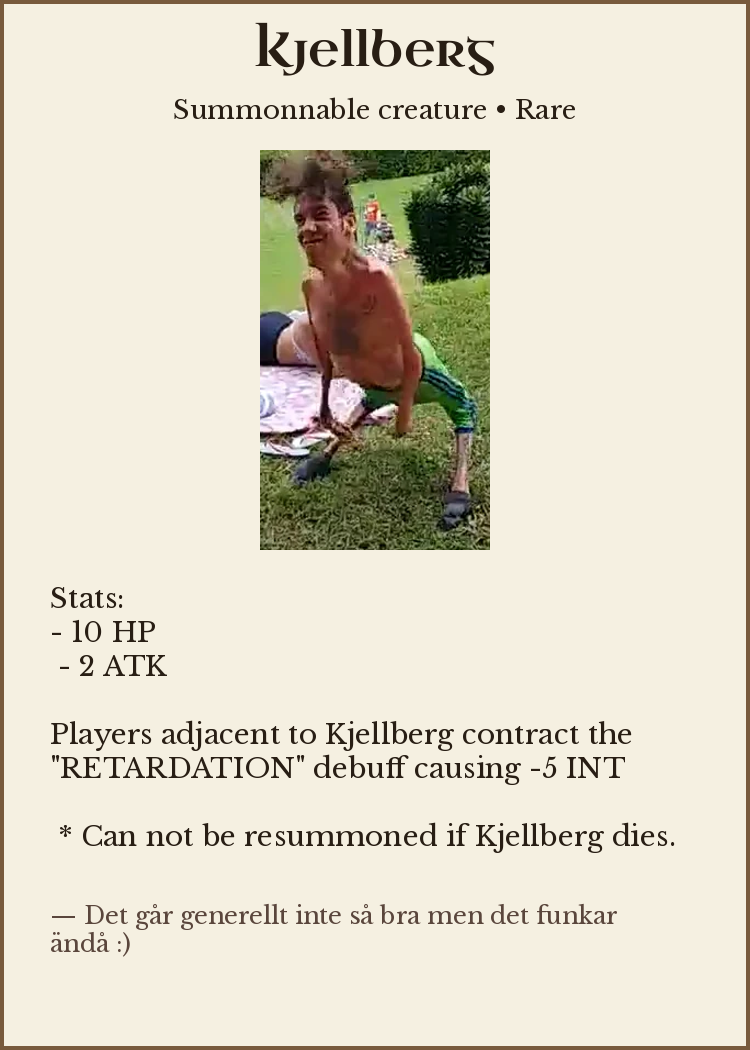
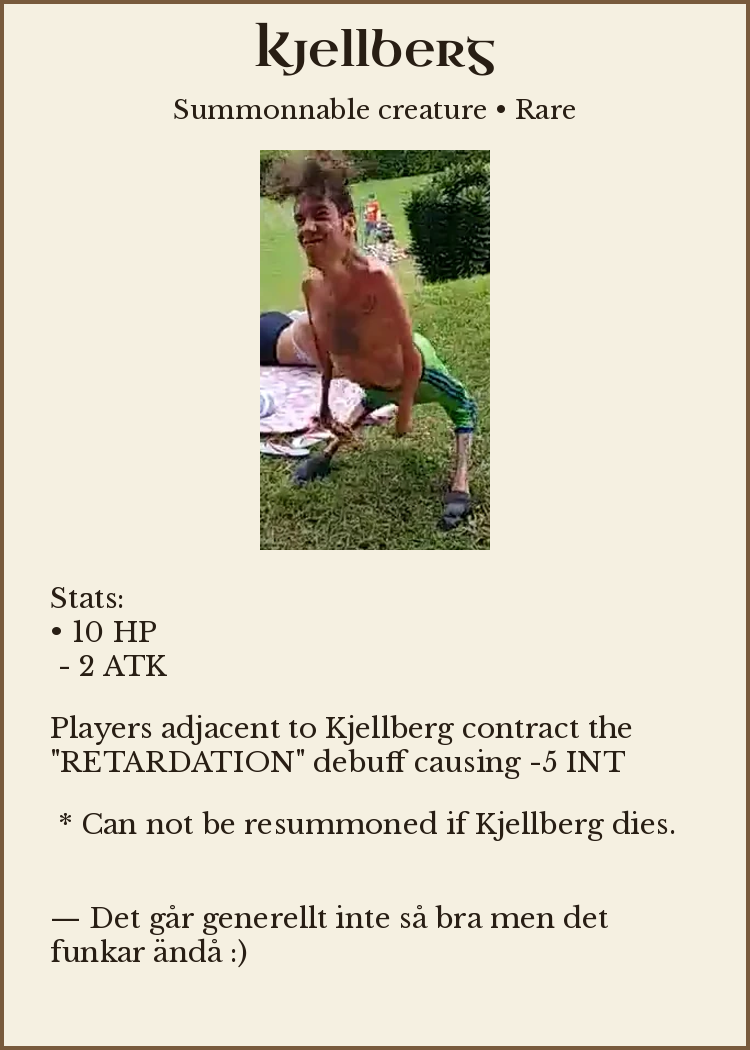
markup for fancy text

diff --git a/source/main.py b/source/main.py
@@ -1,7 +1,7 @@
 import json
-import textwrap
-from PIL import Image, ImageDraw, ImageFont
 from pathlib import Path
+from PIL import Image, ImageDraw, ImageFont
+from markup import render_markup
 
 # ======================
 # Card Constants
@@ -22,23 +22,24 @@ OUTPUT_DIR.mkdir(exist_ok=True)
 # ======================
 # Load Fonts
 # ======================
-title_font = ImageFont.truetype(
-    "fonts/UncialAntiqua-Regular.ttf", 48
-)
-subtitle_font = ImageFont.truetype(
-    "fonts/LibreBaskerville-Regular.ttf", 26
-)
-body_font = ImageFont.truetype(
-    "fonts/LibreBaskerville-Regular.ttf", 28
-)
-flavor_font = ImageFont.truetype(
-    "fonts/LibreBaskerville-Regular.ttf", 24
-)
+title_font = ImageFont.truetype("fonts/UncialAntiqua-Regular.ttf", 48)
+subtitle_font = ImageFont.truetype("fonts/LibreBaskerville-Regular.ttf", 26)
+body_font = ImageFont.truetype("fonts/LibreBaskerville-Regular.ttf", 28)
+flavor_font = ImageFont.truetype("fonts/LibreBaskerville-Regular.ttf", 24)
+bold_font = ImageFont.truetype("fonts/LibreBaskerville-Bold.ttf", 28)
+italic_font = ImageFont.truetype("fonts/LibreBaskerville-Italic.ttf", 28)
+
+fonts_dict = {
+    "normal": body_font,
+    "bold": bold_font,
+    "italic": italic_font
+}
 
 # ======================
-# Helper Function
+# Card Generator
 # ======================
 def generate_card(item):
+    # Base card
     card = Image.new("RGBA", (CARD_WIDTH, CARD_HEIGHT), BACKGROUND_COLOR)
     draw = ImageDraw.Draw(card)
 
@@ -62,8 +63,10 @@ def generate_card(item):
     )
 
     # ---- Artwork ----
-    art = Image.open(Path("item_images") / item["image"]).convert("RGBA")
+    art_path = Path("item_images") / item["image"]
+    art = Image.open(art_path).convert("RGBA")
 
+    # Resize proportionally
     art_ratio = art.width / art.height
     target_width = CARD_WIDTH - (MARGIN * 2)
     target_height = ART_HEIGHT
@@ -76,49 +79,39 @@ def generate_card(item):
         new_width = int(target_height * art_ratio)
 
     art = art.resize((new_width, new_height))
-
     art_x = (CARD_WIDTH - new_width) // 2
     art_y = MARGIN + 100
-
     card.paste(art, (art_x, art_y), art)
 
     # ---- Description ----
     text_start_y = art_y + ART_HEIGHT + 30
-    paragraphs = item["description"].split("\n")
-
-    wrapped_paragraphs = [
-        textwrap.fill(p, width=45) if p.strip() else ""
-        for p in paragraphs
-    ]
-
-    wrapped_description = "\n".join(wrapped_paragraphs)
-
-
-    draw.multiline_text(
-        (MARGIN, text_start_y),
-        wrapped_description,
-        fill=TEXT_COLOR,
-        font=body_font,
-        spacing=6
+    render_markup(
+        item["description"],
+        draw,
+        MARGIN,
+        text_start_y,
+        CARD_WIDTH - (MARGIN * 2),
+        fonts_dict,
+        TEXT_COLOR
     )
 
-    # ---- Flavor ----
-    wrapped_flavor = textwrap.fill(
-        f'— {item["flavor"]}', width=50
-    )
-
-    draw.multiline_text(
-        (MARGIN, CARD_HEIGHT - 150),
-        wrapped_flavor,
-        fill=(90, 70, 60, 255),
-        font=flavor_font,
-        spacing=4
-    )
+    # ---- Flavor text ----
+    wrapped_flavor = item.get("flavor", "")
+    if wrapped_flavor:
+        from markup import COLOR_MAP
+        render_markup(
+            f'— {wrapped_flavor}',
+            draw,
+            MARGIN,
+            CARD_HEIGHT - 150,
+            CARD_WIDTH - (MARGIN * 2),
+            fonts_dict,
+            color := COLOR_MAP.get("default", TEXT_COLOR)
+        )
 
     # ---- Border ----
     border_color = (120, 90, 60, 255)
     border_width = 4
-
     for i in range(border_width):
         draw.rectangle(
             [i, i, CARD_WIDTH - i - 1, CARD_HEIGHT - i - 1],
@@ -129,8 +122,8 @@ def generate_card(item):
     filename = item["name"].lower().replace(" ", "_") + ".png"
     output_path = OUTPUT_DIR / filename
     card.save(output_path, dpi=(DPI, DPI))
-
     print(f"Generated: {output_path}")
+
 
 # ======================
 # Load JSON and Generate

diff --git a/source/markup.py b/source/markup.py
@@ -1,0 +1,118 @@
+import re
+import textwrap
+
+# ======================
+# Inline Markup Pattern
+# ======================
+INLINE_PATTERN = re.compile(
+    r"(\*\*.*?\*\*|\*.*?\*|\{.*?\}.*?\{\/\})"
+)
+
+# ======================
+# Color Definitions
+# ======================
+COLOR_MAP = {
+    "red": (150, 30, 30, 255),
+    "blue": (40, 60, 160, 255),
+    "green": (40, 120, 60, 255),
+    "gold": (160, 120, 40, 255),
+}
+
+# ======================
+# Parse Inline Markup
+# ======================
+def parse_inline(text):
+    parts = INLINE_PATTERN.split(text)
+    tokens = []
+
+    for part in parts:
+        if not part:
+            continue
+
+        if part.startswith("**"):
+            tokens.append(("bold", part[2:-2]))
+        elif part.startswith("*"):
+            tokens.append(("italic", part[1:-1]))
+        elif part.startswith("{"):
+            color = part[1:part.index("}")]
+            content = part[part.index("}") + 1:-3]
+            tokens.append(("color", content, color))
+        else:
+            tokens.append(("normal", part))
+
+    return tokens
+
+
+# ======================
+# Render Markup Block
+# ======================
+def render_markup(
+    text,
+    draw,
+    x,
+    y,
+    max_width,
+    fonts,
+    default_color,
+    line_spacing=6,
+    wrap_width=45
+):
+    cursor_y = y
+
+    paragraphs = text.split("\n\n")
+
+    for para in paragraphs:
+        lines = para.split("\n")
+
+        for line in lines:
+            is_bullet = line.startswith("- ")
+            line = line[2:] if is_bullet else line
+
+            wrapped_lines = textwrap.wrap(line, width=wrap_width)
+
+            for wrapped in wrapped_lines:
+                cursor_x = x + (22 if is_bullet else 0)
+
+                if is_bullet:
+                    draw.text(
+                        (x, cursor_y),
+                        "•",
+                        fill=default_color,
+                        font=fonts["normal"]
+                    )
+
+                tokens = parse_inline(wrapped)
+
+                for token in tokens:
+                    kind = token[0]
+
+                    if kind == "bold":
+                        font = fonts["bold"]
+                        color = default_color
+                        content = token[1]
+                    elif kind == "italic":
+                        font = fonts["italic"]
+                        color = default_color
+                        content = token[1]
+                    elif kind == "color":
+                        font = fonts["normal"]
+                        content = token[1]
+                        color = COLOR_MAP.get(token[2], default_color)
+                    else:
+                        font = fonts["normal"]
+                        color = default_color
+                        content = token[1]
+
+                    draw.text(
+                        (cursor_x, cursor_y),
+                        content,
+                        fill=color,
+                        font=font
+                    )
+                    cursor_x += draw.textlength(content, font=font)
+
+                cursor_y += fonts["normal"].size + line_spacing
+
+        cursor_y += fonts["normal"].size  # paragraph spacing
+
+    return cursor_y
